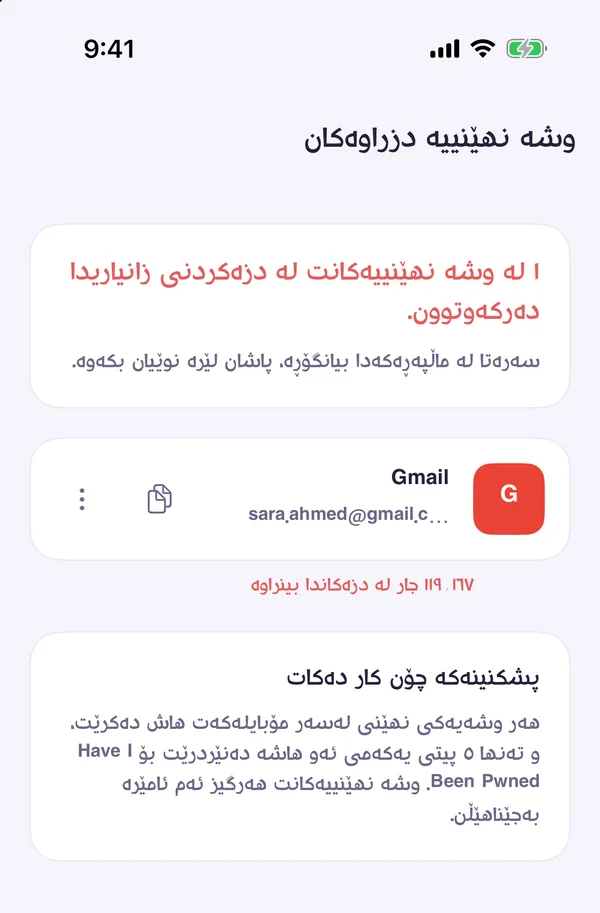
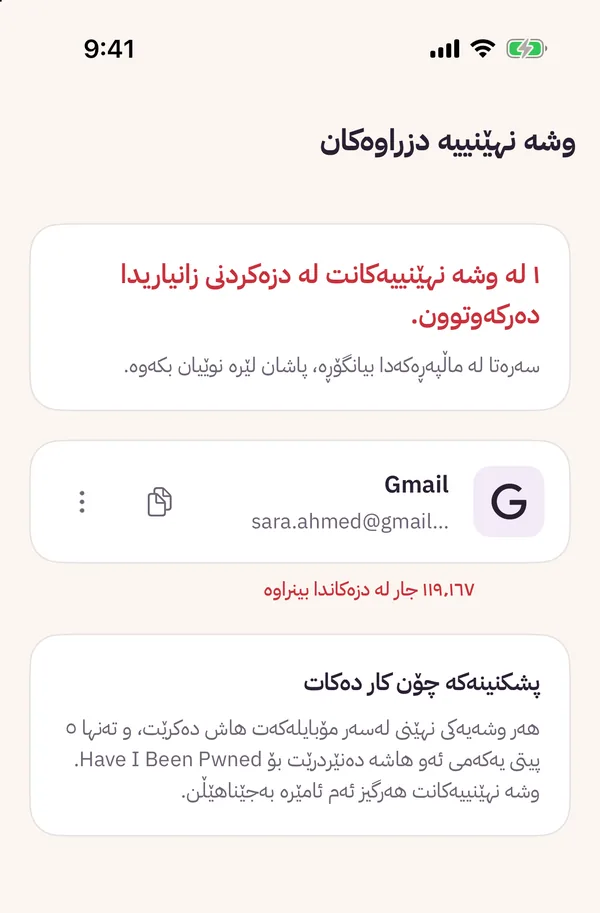
Landing: app screenshots from the redesigned app; password field fixes
- All 18 landing screenshots (Passwords, Alerts, Password health; en / ckb / ar;
  light and dark) recaptured from the redesigned iOS app, same crops and sizes.
- New DEBUG-only -screenshotPremium launch flag (LicenseManager.isPremium) so the
  Premium breach results can be captured without a server-signed licence;
  documented in apps/landing/SCREENSHOTS.md.
- iOS password fields (unlock, create vault, change password, restore backup)
  no longer autocorrect or auto-capitalise when the password is revealed, and
  Return on the unlock screen unlocks.

diff --git a/apps/ios/qasa_ios/Views/CreateVaultView.swift b/apps/ios/qasa_ios/Views/CreateVaultView.swift
@@ -78,6 +78,7 @@ struct CreateVaultView: View {
                             placeholder: L10n.tr("auth.unlock.placeholder", locale: locale),
                             text: $password,
                             isSecure: !passwordVisible,
+                            isPassword: true,
                             trailing: AnyView(
                                 FieldIconButton(
                                     systemImage: passwordVisible ? "eye.slash" : "eye",
@@ -113,7 +114,8 @@ struct CreateVaultView: View {
                             icon: "lock.rotation",
                             placeholder: L10n.tr("auth.create.reenter", locale: locale),
                             text: $confirmPassword,
-                            isSecure: true
+                            isSecure: true,
+                            isPassword: true
                         )
                     }
                     .padding(.top, 4)

diff --git a/apps/ios/qasa_ios/Components/Components.swift b/apps/ios/qasa_ios/Components/Components.swift
@@ -148,7 +148,12 @@ struct ThemedTextField: View {
     let placeholder: String
     @Binding var text: String
     var isSecure: Bool = false
+    /// A password, even while revealed: no autocorrect, auto-capitalisation or spell check,
+    /// which would otherwise change what was typed (e.g. "qasa…" becoming "Qasa…").
+    var isPassword: Bool = false
     var trailing: AnyView? = nil
+    /// Return key action (for example "unlock").
+    var onSubmit: (() -> Void)? = nil
 
     var body: some View {
         HStack(spacing: 12) {
@@ -162,6 +167,9 @@ struct ThemedTextField: View {
                     TextField(placeholder, text: $text)
                 }
             }
+            .textInputAutocapitalization(isPassword ? .never : nil)
+            .autocorrectionDisabled(isPassword)
+            .onSubmit { onSubmit?() }
             .multilineTextAlignment(.leading)
             if let trailing { trailing }
         }

diff --git a/apps/ios/qasa_ios/Views/LoginView.swift b/apps/ios/qasa_ios/Views/LoginView.swift
@@ -56,6 +56,7 @@ struct LoginView: View {
                             placeholder: L10n.tr("auth.unlock.placeholder", locale: locale),
                             text: $password,
                             isSecure: !passwordVisible,
+                            isPassword: true,
                             trailing: AnyView(
                                 FieldIconButton(
                                     systemImage: passwordVisible ? "eye.slash" : "eye",
@@ -65,7 +66,8 @@ struct LoginView: View {
                                 ) {
                                     passwordVisible.toggle()
                                 }
-                            )
+                            ),
+                            onSubmit: attemptUnlock
                         )
 
                         if let errorMessage {

diff --git a/apps/ios/qasa_ios/Services/License/LicenseManager.swift b/apps/ios/qasa_ios/Services/License/LicenseManager.swift
@@ -24,7 +24,14 @@ final class LicenseManager {
     /// marks scheduled expiry checks as handled (see `PremiumRefreshPolicy`).
     @ObservationIgnored private(set) var lastRefreshAttempt: Date?
 
-    var isPremium: Bool { parsed?.isPremium ?? false }
+    var isPremium: Bool {
+        #if DEBUG
+        // Marketing screenshots (apps/landing/SCREENSHOTS.md): Premium screens without a
+        // server-signed licence. Never compiled into a release build.
+        if ProcessInfo.processInfo.arguments.contains("-screenshotPremium") { return true }
+        #endif
+        return parsed?.isPremium ?? false
+    }
     var deviceLimit: Int { parsed?.deviceLimit ?? 1 }
     var tierLabel: String { parsed?.tier.capitalized ?? "Free" }
 

diff --git a/apps/ios/qasa_ios/Views/BackupRestoreView.swift b/apps/ios/qasa_ios/Views/BackupRestoreView.swift
@@ -126,6 +126,7 @@ struct BackupRestoreView: View {
                     placeholder: L10n.tr("auth.unlock.placeholder", locale: locale),
                     text: $password,
                     isSecure: !passwordVisible,
+                            isPassword: true,
                     trailing: AnyView(
                         FieldIconButton(
                             systemImage: passwordVisible ? "eye.slash" : "eye",

diff --git a/apps/ios/qasa_ios/Views/ChangeMasterPasswordView.swift b/apps/ios/qasa_ios/Views/ChangeMasterPasswordView.swift
@@ -90,6 +90,7 @@ struct ChangeMasterPasswordView: View {
                 placeholder: title,
                 text: text,
                 isSecure: !passwordVisible,
+                            isPassword: true,
                 trailing: AnyView(
                     FieldIconButton(
                         systemImage: passwordVisible ? "eye.slash" : "eye",

diff --git a/apps/landing/SCREENSHOTS.md b/apps/landing/SCREENSHOTS.md
@@ -16,6 +16,12 @@ instead of the developer samples (`VaultSeedData.seedScreenshotVault` in
 `apps/ios/qasa_ios/Models/VaultModels.swift`). Gmail's password is in Pwned Passwords, so the
 breach check finds one.
 
+`-screenshotPremium` (DEBUG only, `LicenseManager.isPremium`) shows the Premium screens without a
+server-signed licence, so the Alerts tab and Password health show breach results instead of the
+upgrade card.
+
+Use a simulator of its own for this (for example one named "Qasa Screens"): step 3 wipes the vault.
+
 - Test main password for this vault: `qasa-screens-2026!` (simulator only, never a real vault)
 
 ## Refreshing them
@@ -24,7 +30,7 @@ breach check finds one.
 2. Set a clean status bar: `xcrun simctl status_bar booted override --time 9:41 --batteryState charged --batteryLevel 100 --cellularBars 4 --wifiBars 3`
 3. First run only: launch with `-wipeLocalVault -screenshotVault -qasa.language en -qasa.hasCompletedWelcome YES`, create the vault with the test password and turn biometrics off.
 4. For each language (`en`, `ckb`, `ar`) and theme (`light`, `dark`): launch with
-   `-screenshotVault -qasa.language <lang> -qasa.theme <theme> -qasa.hasCompletedWelcome YES`,
+   `-screenshotVault -screenshotPremium -qasa.language <lang> -qasa.theme <theme> -qasa.hasCompletedWelcome YES`,
    unlock, then capture each screen with `xcrun simctl io booted screenshot --type=png <screen>-<lang>-<theme>.png`:
    the Passwords tab, the Alerts tab (wait a few seconds for the breach check), and You → Password health.
    With the Arabic or Kurdish keyboard active, typed text comes out in that script: paste the password
